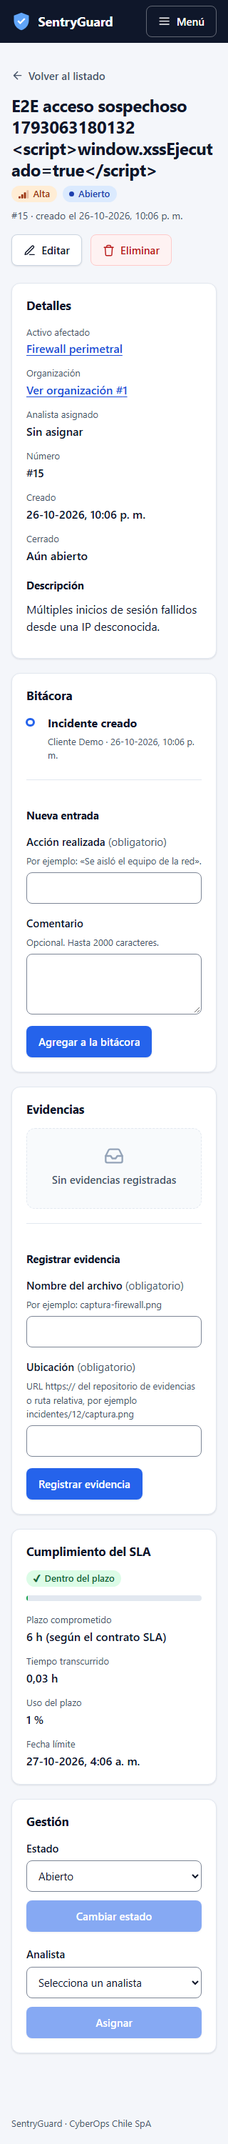
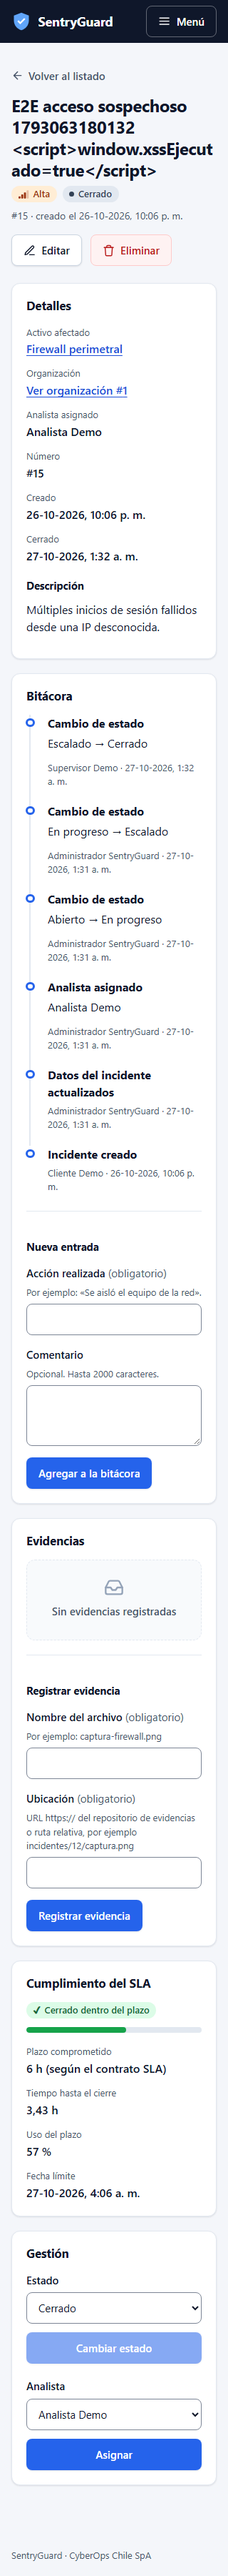
fix: el analista solo documenta sus incidentes asignados y no accede a organizaciones ni activos ajenos

diff --git a/sentryguard-web/src/features/auth/permisos.ts b/sentryguard-web/src/features/auth/permisos.ts
@@ -6,16 +6,17 @@ import type { Incidente, Rol, UsuarioActual } from '../../api/contracts'
  */
 export const PERMISOS = {
   crearIncidente: ['Administrador', 'Supervisor', 'Cliente'],
-  editarIncidente: ['Administrador', 'Supervisor', 'Analista'],
+  // El Analista no edita ni mueve estados: documenta su trabajo en bitacora y evidencias.
+  editarIncidente: ['Administrador', 'Supervisor'],
   eliminarIncidente: ['Administrador'],
   asignarAnalista: ['Administrador', 'Supervisor'],
-  cambiarEstado: ['Administrador', 'Supervisor', 'Analista'],
+  cambiarEstado: ['Administrador', 'Supervisor'],
   registrarBitacora: ['Administrador', 'Supervisor', 'Analista'],
   agregarEvidencia: ['Administrador', 'Supervisor', 'Analista'],
   crearActivo: ['Administrador', 'Supervisor'],
   editarActivo: ['Administrador', 'Supervisor'],
   eliminarActivo: ['Administrador'],
-  verOrganizaciones: ['Administrador', 'Supervisor', 'Analista'],
+  verOrganizaciones: ['Administrador', 'Supervisor'],
   gestionarOrganizaciones: ['Administrador'],
   gestionarContratosSla: ['Administrador'],
   gestionarUsuarios: ['Administrador'],
@@ -29,7 +30,7 @@ export function puede(usuario: UsuarioActual | null, accion: Accion): boolean {
   return usuario !== null && (PERMISOS[accion] as readonly Rol[]).includes(usuario.rol)
 }
 
-/** El Analista solo gestiona los incidentes que tiene asignados (igual que ValidaAccesoIncidente). */
+/** El Analista solo documenta (bitacora y evidencias) los incidentes que tiene asignados (igual que ValidaAccesoIncidente). */
 export function puedeSobreIncidente(usuario: UsuarioActual | null, accion: Accion, incidente: Incidente): boolean {
   if (!puede(usuario, accion)) return false
   if (usuario?.rol === 'Analista') return incidente.analistaAsignadoId === usuario.id

diff --git a/sentryguard-web/src/features/mantenedores.test.tsx b/sentryguard-web/src/features/mantenedores.test.tsx
@@ -1,7 +1,7 @@
 import { screen, within } from '@testing-library/react'
 import { http, HttpResponse } from 'msw'
 import { describe, expect, it } from 'vitest'
-import { API } from '../test/fixtures'
+import { API, crearIncidente } from '../test/fixtures'
 import { renderApp } from '../test/renderApp'
 import { server } from '../test/server'
 
@@ -147,6 +147,22 @@ describe('Bitácora y evidencias del incidente', () => {
 
     expect(await screen.findByText(/usa una url que empiece con https/i)).toBeInTheDocument()
     expect(enviada).toBe(false)
+  })
+
+  it('el Analista documenta su incidente asignado, pero no lo edita ni cambia el estado', async () => {
+    server.use(
+      http.get(`${API}/api/v1/incidentes/:id`, () =>
+        HttpResponse.json(crearIncidente({ analistaAsignadoId: 3, analistaAsignado: 'Analista Demo' })),
+      ),
+    )
+    renderApp('/incidentes/1', { sesion: 'analista' })
+
+    expect(await screen.findByRole('button', { name: 'Agregar a la bitácora' })).toBeInTheDocument()
+    expect(screen.getByRole('button', { name: 'Registrar evidencia' })).toBeInTheDocument()
+    expect(screen.queryByRole('link', { name: /editar/i })).not.toBeInTheDocument()
+    expect(screen.queryByRole('button', { name: 'Cambiar estado' })).not.toBeInTheDocument()
+    expect(screen.queryByRole('heading', { name: 'Gestión' })).not.toBeInTheDocument()
+    expect(screen.queryByRole('link', { name: 'Organizaciones', hidden: true })).not.toBeInTheDocument()
   })
 
   it('el Cliente ve la bitácora y el SLA, pero no los formularios de registro', async () => {

diff --git a/sentryguard-web/src/features/activos/pages/ActivosListPage.tsx b/sentryguard-web/src/features/activos/pages/ActivosListPage.tsx
@@ -58,7 +58,11 @@ export function ActivosListPage() {
           <Link to="/activos/nuevo" className="boton boton--primario"><Icono nombre="mas" />Nuevo activo</Link>
         )}
       </div>
-      {!esStaff && <p className="introduccion">Activos registrados para tu organización.</p>}
+      {!esStaff && (
+        <p className="introduccion">
+          {usuario?.rol === 'Analista' ? 'Activos afectados por los incidentes que tienes asignados.' : 'Activos registrados para tu organización.'}
+        </p>
+      )}
 
       <FiltrosListado key={claveFormulario} etiqueta="Filtrar activos" campos={campos} valores={valores} onAplicar={aplicar} />
 

diff --git a/sentryguard-web/src/features/auth/ProtectedRoute.test.tsx b/sentryguard-web/src/features/auth/ProtectedRoute.test.tsx
@@ -25,7 +25,7 @@ describe('Rutas protegidas', () => {
   })
 
   it('muestra acceso denegado cuando el rol no puede entrar a la ruta', async () => {
-    // Un Cliente no puede editar incidentes (solo Administrador, Supervisor o Analista asignado).
+    // Un Cliente no puede editar incidentes (solo Administrador y Supervisor).
     const { router } = renderApp('/incidentes/1/editar', { sesion: 'cliente' })
 
     expect(await screen.findByRole('heading', { level: 1, name: 'Acceso denegado' })).toBeInTheDocument()

diff --git a/sentryguard-web/src/features/incidentes/pages/IncidenteEditPage.tsx b/sentryguard-web/src/features/incidentes/pages/IncidenteEditPage.tsx
@@ -33,7 +33,7 @@ export function IncidenteEditPage() {
   }
 
   const incidente = consulta.data
-  // Un Analista solo edita lo que tiene asignado; si llega por URL ve "acceso denegado" (la API igual responde 403).
+  // Solo Administrador y Supervisor editan; si alguien mas llega por URL ve "acceso denegado" (la API igual responde 403).
   if (!puedeSobreIncidente(usuario, 'editarIncidente', incidente)) return <AccessDeniedContent />
 
   return (

diff --git a/SentryGuard.Tests/MantenedoresApiTests.cs b/SentryGuard.Tests/MantenedoresApiTests.cs
@@ -232,6 +232,37 @@ public class MantenedoresApiTests : IClassFixture<SentryGuardApiFactory>
     }
 
     [Fact]
+    public async Task Analista_SoloDocumentaSusIncidentes_YNoVeOrganizacionesNiActivosAjenos()
+    {
+        var admin = await ClienteAsync("admin@sentryguard.cl");
+        var activoAsignado = await CrearActivoAsync(admin);
+        var activoAjeno = await CrearActivoAsync(admin);
+        var incidenteId = await CrearIncidenteAsync(admin, activoAsignado);
+        (await admin.PostAsJsonAsync($"/api/v1/incidentes/{incidenteId}/asignar", new { analistaId = 3 })).EnsureSuccessStatusCode();
+
+        var analista = await ClienteAsync("analista@sentryguard.cl");
+
+        // Sobre su incidente asignado: documenta (bitacora y evidencias), pero no edita ni mueve el estado.
+        Assert.Equal(HttpStatusCode.Forbidden, (await analista.PutAsJsonAsync($"/api/v1/incidentes/{incidenteId}", new { titulo = "Cambio del analista" })).StatusCode);
+        Assert.Equal(HttpStatusCode.Forbidden, (await analista.PostAsJsonAsync($"/api/v1/incidentes/{incidenteId}/cambiar-estado", new { estadoId = 2 })).StatusCode);
+        Assert.Equal(HttpStatusCode.Created, (await analista.PostAsJsonAsync($"/api/v1/incidentes/{incidenteId}/bitacora", new { accion = "Revision de logs" })).StatusCode);
+        Assert.Equal(HttpStatusCode.Created, (await analista.PostAsJsonAsync($"/api/v1/incidentes/{incidenteId}/evidencia", new { nombreArchivo = "log.txt", rutaAlmacenamiento = "incidentes/log.txt" })).StatusCode);
+
+        // Organizaciones: sin acceso por organizacion.
+        Assert.Equal(HttpStatusCode.Forbidden, (await analista.GetAsync("/api/v1/organizaciones")).StatusCode);
+        Assert.Equal(HttpStatusCode.Forbidden, (await analista.GetAsync("/api/v1/organizaciones/1")).StatusCode);
+        Assert.Equal(HttpStatusCode.Forbidden, (await analista.GetAsync("/api/v1/organizaciones/1/contratos-sla")).StatusCode);
+
+        // Activos: solo los de sus incidentes asignados.
+        var activos = await analista.GetFromJsonAsync<JsonElement>("/api/v1/activos?pageSize=50");
+        var ids = activos.GetProperty("items").EnumerateArray().Select(a => a.GetProperty("id").GetInt32()).ToList();
+        Assert.Contains(activoAsignado, ids);
+        Assert.DoesNotContain(activoAjeno, ids);
+        Assert.Equal(HttpStatusCode.OK, (await analista.GetAsync($"/api/v1/activos/{activoAsignado}")).StatusCode);
+        Assert.Equal(HttpStatusCode.Forbidden, (await analista.GetAsync($"/api/v1/activos/{activoAjeno}")).StatusCode);
+    }
+
+    [Fact]
     public async Task Catalogos_EliminarEnUsoDevuelve409_YAuditoriaSoloAdministrador()
     {
         var admin = await ClienteAsync("admin@sentryguard.cl");

diff --git a/SentryGuard/Endpoints/OrganizacionAPI.cs b/SentryGuard/Endpoints/OrganizacionAPI.cs
@@ -1,4 +1,4 @@
-using System.Linq.Expressions;
+using System.Linq.Expressions;
 using Microsoft.EntityFrameworkCore;
 using SentryGuard.Data;
 using SentryGuard.DTOs;
@@ -12,10 +12,11 @@ namespace SentryGuard.Endpoints
         public static void MapOrganizacionApi(this WebApplication app)
         {
             var grupo = app.MapGroup("/api/v1/organizaciones").WithTags("Organizaciones").RequireAuthorization();
-            // Listar todas las organizaciones es solo para staff de CyberOps; un Cliente no necesita ver otras.
+            // Listar todas las organizaciones es para quien administra o coordina; el Analista trabaja por
+            // incidente asignado, no por organizacion, y un Cliente no necesita ver otras.
             grupo.MapGet("", Listar).WithName("Listar organizaciones")
-                .RequireAuthorization(p => p.RequireRole("Administrador", "Supervisor", "Analista"));
-            // Obtener por id: abierto a los 4 roles, pero Cliente solo puede pedir la suya (validado dentro del handler).
+                .RequireAuthorization(p => p.RequireRole("Administrador", "Supervisor"));
+            // Obtener por id: Administrador/Supervisor cualquiera, Cliente solo la suya, Analista ninguna (ValidaAccesoOrganizacion).
             grupo.MapGet("/{id}", Obtener).WithName("Obtener organizacion");
             grupo.MapPost("", Crear).WithName("Crear organizacion")
                 .RequireAuthorization(p => p.RequireRole("Administrador"));
@@ -73,12 +74,12 @@ namespace SentryGuard.Endpoints
             return Results.Ok(new { total, page, pageSize, totalPages = (int)Math.Ceiling((double)total / pageSize), items });
         }
 
-        // Cliente solo accede a su propia organizacion (OWASP API1).
+        // Misma regla que el resto de la API (OWASP API1): Cliente solo la suya; Analista no accede por organizacion.
         private static async Task<IResult?> ValidarAccesoAsync(int id, SentryGuardDbContext db, HttpContext httpContext, AuthService authService)
         {
             var usuario = await authService.ObtenerUsuarioAutenticadoAsync(httpContext, db);
             if (usuario == null) return Results.Unauthorized();
-            if (usuario.Rol?.Nombre == "Cliente" && usuario.OrganizacionId != id) return Results.Forbid();
+            if (!authService.ValidaAccesoOrganizacion(usuario, id)) return Results.Forbid();
             return null;
         }
 

diff --git a/SentryGuard/Endpoints/IncidenteAPI.cs b/SentryGuard/Endpoints/IncidenteAPI.cs
@@ -24,9 +24,10 @@ namespace SentryGuard.Endpoints
             // Listar/Obtener/Bitacora/Evidencia/SLA: abiertos a los 4 roles, filtrados/validados dentro del handler.
             incidentes.MapGet("", ListarIncidentes).WithName("Listar incidentes");
             incidentes.MapGet("/{id}", ObtenerIncidente).WithName("Obtener incidente");
-            // Analista solo si esta asignado (validado dentro del handler); Cliente no edita incidentes.
+            // Editar datos y mover estados es tarea del staff que coordina (Administrador/Supervisor).
+            // El Analista documenta su trabajo en la bitacora y las evidencias de lo que tiene asignado.
             incidentes.MapPut("/{id}", ActualizarIncidente).WithName("Actualizar incidente")
-                .RequireAuthorization(p => p.RequireRole("Administrador", "Supervisor", "Analista"));
+                .RequireAuthorization(p => p.RequireRole("Administrador", "Supervisor"));
             // Eliminar es destructivo: solo Administrador.
             incidentes.MapDelete("/{id}", EliminarIncidente).WithName("Eliminar incidente")
                 .RequireAuthorization(p => p.RequireRole("Administrador"));
@@ -34,7 +35,7 @@ namespace SentryGuard.Endpoints
             incidentes.MapPost("/{id}/asignar", AsignarAnalista).WithName("Asignar analista")
                 .RequireAuthorization(p => p.RequireRole("Administrador", "Supervisor"));
             incidentes.MapPost("/{id}/cambiar-estado", CambiarEstado).WithName("Cambiar estado")
-                .RequireAuthorization(p => p.RequireRole("Administrador", "Supervisor", "Analista"));
+                .RequireAuthorization(p => p.RequireRole("Administrador", "Supervisor"));
             incidentes.MapPost("/{id}/bitacora", AgregarBitacora).WithName("Agregar bitácora")
                 .RequireAuthorization(p => p.RequireRole("Administrador", "Supervisor", "Analista"));
             incidentes.MapGet("/{id}/bitacora", ObtenerBitacora).WithName("Obtener bitácora");

diff --git a/SentryGuard/Endpoints/ActivoAPI.cs b/SentryGuard/Endpoints/ActivoAPI.cs
@@ -1,4 +1,4 @@
-using System.Linq.Expressions;
+using System.Linq.Expressions;
 using Microsoft.EntityFrameworkCore;
 using SentryGuard.Data;
 using SentryGuard.DTOs;
@@ -46,10 +46,13 @@ namespace SentryGuard.Endpoints
             var usuario = await authService.ObtenerUsuarioAutenticadoAsync(httpContext, db);
             if (usuario == null) return Results.Unauthorized();
 
-            // Cliente solo ve los activos de su propia organizacion (OWASP API1): el filtro que mande se ignora.
+            // Cliente: solo los activos de su organizacion. Analista: solo los activos de sus incidentes asignados.
+            // En ambos casos el filtro de organizacion que manden se ignora (OWASP API1).
             IQueryable<Models.Activo> query = db.Activos;
             if (usuario.Rol?.Nombre == "Cliente")
                 query = query.Where(a => a.OrganizacionId == usuario.OrganizacionId);
+            else if (usuario.Rol?.Nombre == "Analista")
+                query = query.Where(a => db.Incidentes.Any(i => i.ActivoId == a.Id && i.AnalistaAsignadoId == usuario.Id));
             else if (organizacionId.HasValue)
                 query = query.Where(a => a.OrganizacionId == organizacionId.Value);
 
@@ -83,6 +86,8 @@ namespace SentryGuard.Endpoints
             if (activo == null) return Results.NotFound();
 
             if (usuario.Rol?.Nombre == "Cliente" && usuario.OrganizacionId != activo.OrganizacionId)
+                return Results.Forbid();
+            if (usuario.Rol?.Nombre == "Analista" && !await db.Incidentes.AnyAsync(i => i.ActivoId == id && i.AnalistaAsignadoId == usuario.Id))
                 return Results.Forbid();
 
             var dto = await db.Activos.Where(a => a.Id == id).Select(ADto).FirstAsync();

diff --git a/docs/INFORME_TECNICO.md b/docs/INFORME_TECNICO.md
@@ -80,15 +80,15 @@ El riesgo aceptado (lectura por XSS) se mitiga con: renderizado siempre como tex
 |---|---|---|---|---|
 | Ver incidentes | Todos | Todos | Solo asignados | Solo de su organización |
 | Crear incidente | Sí | Sí | No | Sí (sobre activos propios) |
-| Editar incidente | Sí | Sí | Solo asignados | No |
-| Cambiar estado | Sí | Sí | Solo asignados | No |
+| Editar incidente | Sí | Sí | No | No |
+| Cambiar estado | Sí | Sí | No | No |
 | Asignar analista | Sí | Sí | No | No |
 | Eliminar incidente | Sí | No | No | No |
 | Agregar a la bitácora y evidencias | Sí | Sí | Solo asignados | No (solo ve) |
-| Ver activos | Todos | Todos | Todos | Solo de su organización |
+| Ver activos | Todos | Todos | Solo los de sus incidentes asignados | Solo de su organización |
 | Crear y editar activos | Sí | Sí | No | No |
 | Eliminar activos | Sí | No | No | No |
-| Ver organizaciones | Todas | Todas | Todas | Solo la suya («Mi organización») |
+| Ver organizaciones | Todas | Todas | No | Solo la suya («Mi organización») |
 | Gestionar organizaciones y contratos SLA | Sí | No | No | No |
 | Usuarios, catálogos y auditoría | Sí | No | No | No |
 
